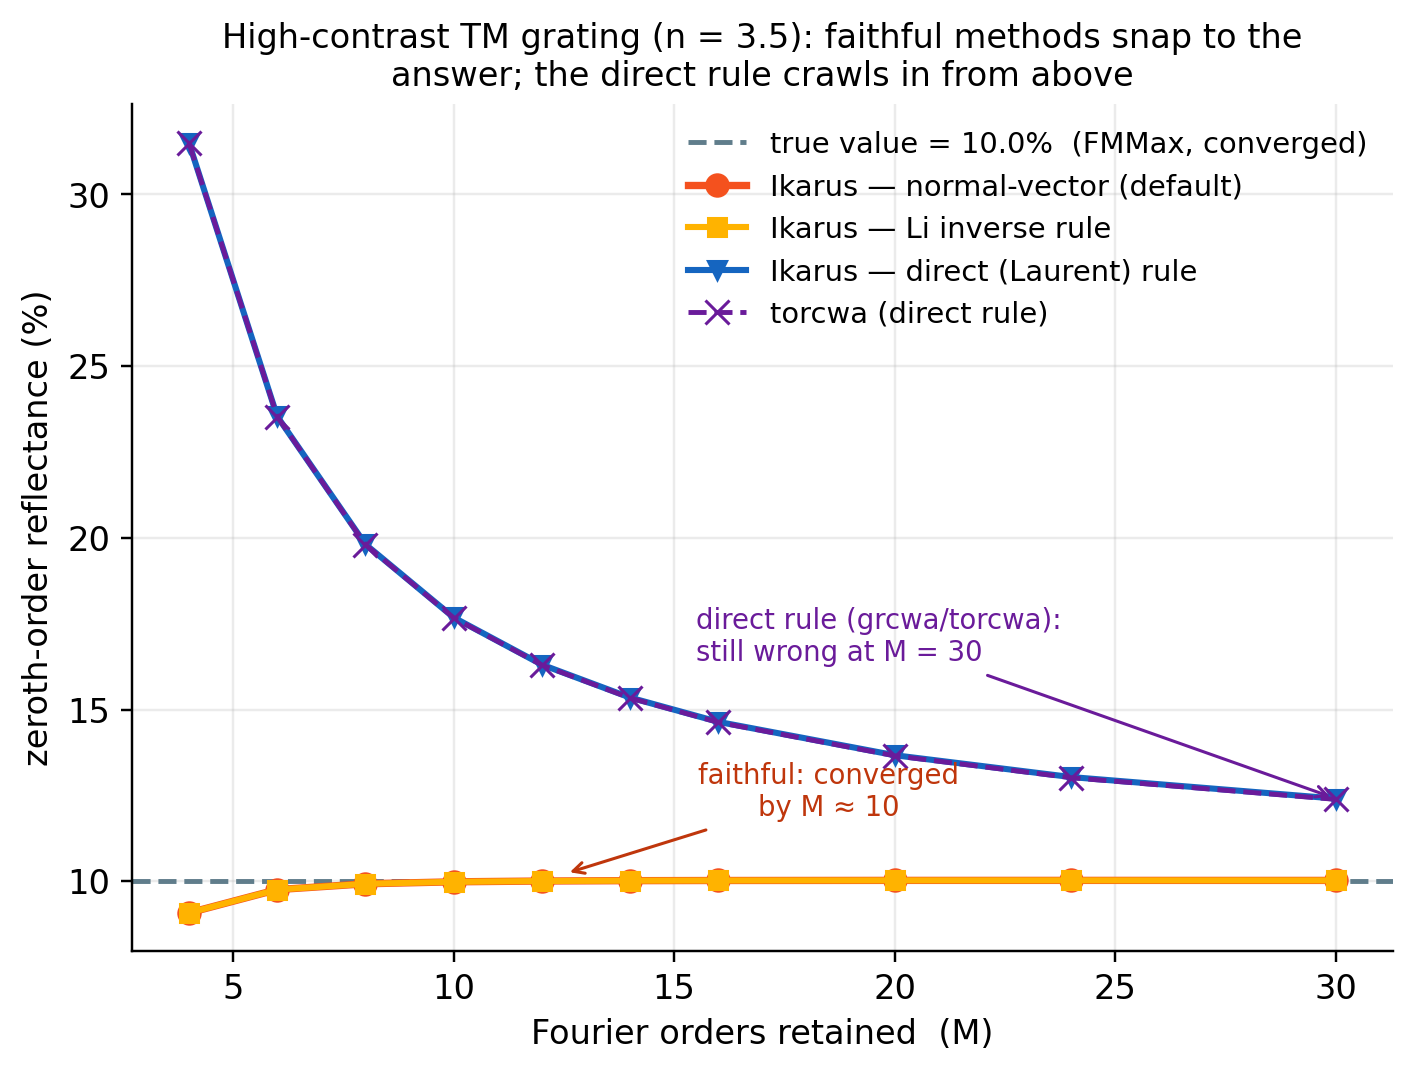
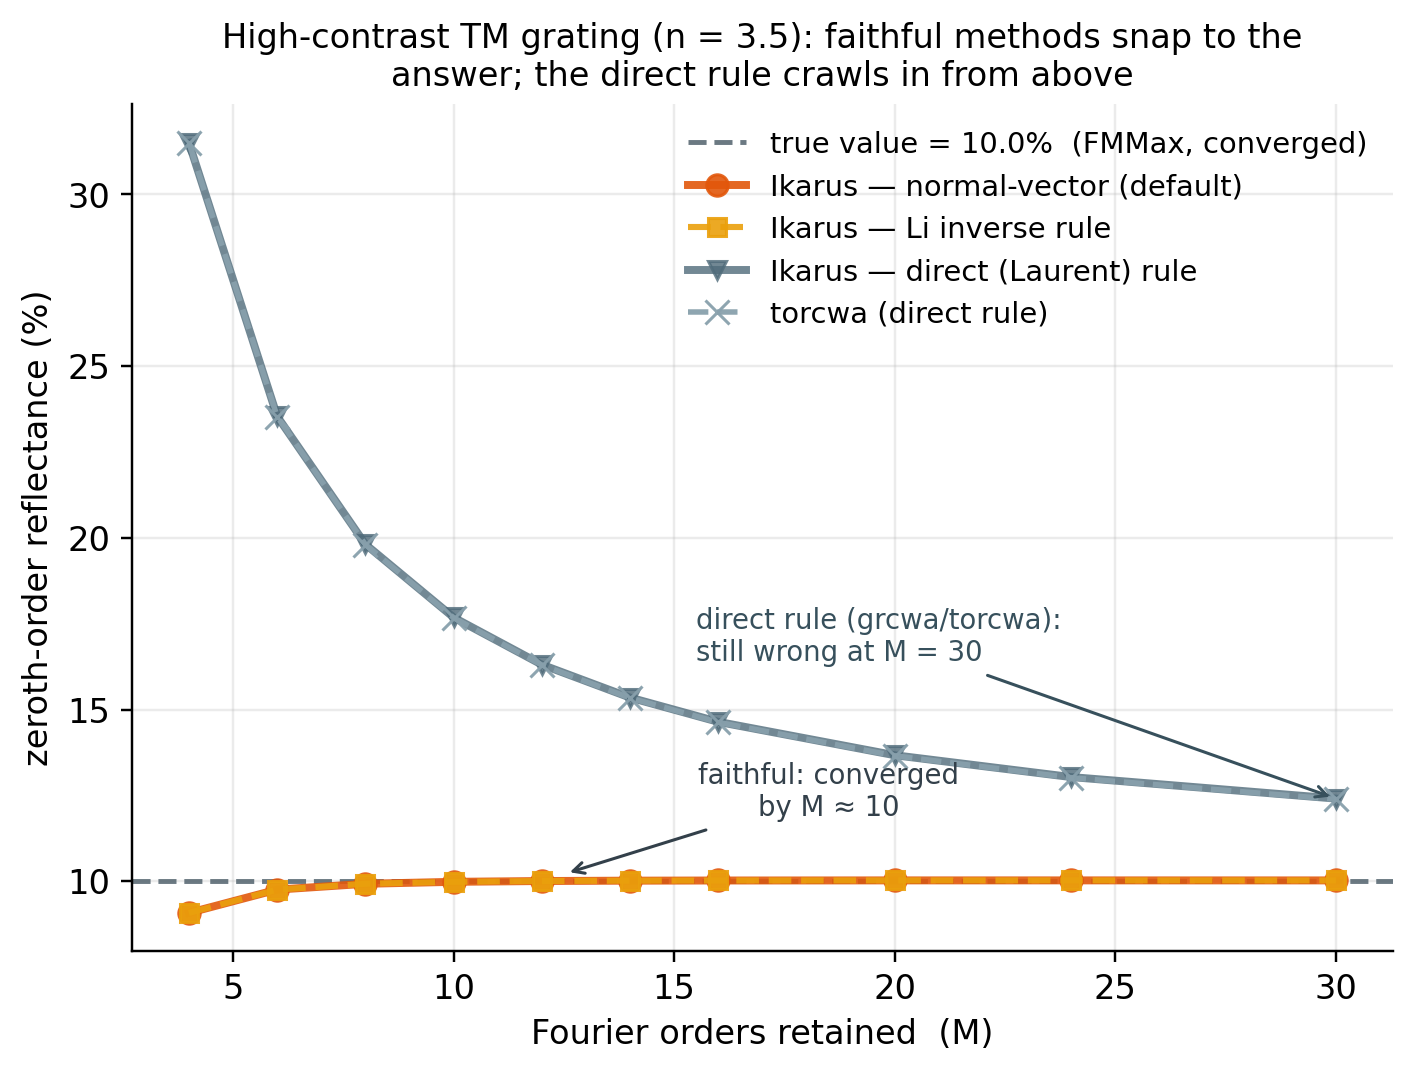
docs: refine validation figures (brand palette) + cite the cross-check tools
- Recolour all five figures to a brand-aligned scheme: warm orange/gold/bronze for
  Ikarus & the faithful methods (the heroes), muted slate for the other tools (they
  recede), charcoal for structure. Data lines get transparency + solid/dashed
  pairing so overlapping curves (normal/Li; laurent/torcwa) stay legible. Replaces
  the saturated primary colours.
- Add a References section citing every cross-check solver properly: FMMax
  (Schubert & Hammond, Opt. Express 2023), grcwa (Jin et al., ACS Photonics 2020),
  torcwa (Kim & Lee, Comput. Phys. Commun. 2023), plus the Fourier-factorization
  literature (Li 1996; Lalanne & Morris 1996; Granet & Guizal 1996; Schuster 2007).

diff --git a/scripts/gen_validation_figures.py b/scripts/gen_validation_figures.py
@@ -34,9 +34,18 @@ from ikarus.tests.validation import torcwa_reference as tw
 ASSETS = Path(__file__).resolve().parent.parent / "docs" / "assets"
 ASSETS.mkdir(parents=True, exist_ok=True)
 
-# -- shared style (matches gen_docs_figures.py) -----------------------------
-ORANGE, AMBER, DEEP, BLUE = "#f4511e", "#ffb300", "#bf360c", "#1565c0"
-GREEN, PURPLE, RED, GREY = "#2e7d32", "#6a1b9a", "#c62828", "#607d8b"
+# -- refined, brand-aligned palette -----------------------------------------
+# Warm (orange/gold/bronze) = Ikarus & faithful methods, the heroes; muted slate
+# = the other tools, which recede; charcoal for structure.  Data lines carry a
+# little transparency (+ solid/dashed pairing) so overlapping curves stay legible.
+ORANGE = "#e2570b"   # Ikarus normal-vector (default) — brand orange
+AMBER = "#eaa00c"    # Ikarus Li inverse rule — warm gold
+GREEN = "#a56a2b"    # FMMax reference — warm bronze
+DEEP = "#33404a"     # charcoal — text, annotations, tags
+BLUE = "#4f6b7a"     # Ikarus laurent / direct rule — muted slate
+PURPLE = "#88a0ac"   # torcwa — lighter steel
+RED = "#37505c"      # grcwa — dark slate
+GREY = "#5b6b75"     # true-value / reference lines
 plt.rcParams.update({
     "figure.facecolor": "white", "savefig.facecolor": "white",
     "axes.facecolor": "white", "font.size": 11, "axes.grid": True,
@@ -144,15 +153,15 @@ def tm_sweep():
 
 def fig_tm_convergence(Ms, data, R_true):
     fig, ax = plt.subplots(figsize=(7.4, 5.0))
-    ax.axhline(R_true * 100, color=GREY, ls="--", lw=1.6,
+    ax.axhline(R_true * 100, color=GREY, ls="--", lw=1.6, alpha=0.9,
                label=f"true value = {R_true*100:.1f}%  (FMMax, converged)")
-    ax.plot(Ms, data["normal"] * 100, "o-", color=ORANGE, lw=2.4, ms=7,
+    ax.plot(Ms, data["normal"] * 100, "o-", color=ORANGE, lw=2.6, ms=7, alpha=0.9,
             label="Ikarus — normal-vector (default)")
-    ax.plot(Ms, data["li"] * 100, "s-", color=AMBER, lw=2, ms=6,
+    ax.plot(Ms, data["li"] * 100, "s--", color=AMBER, lw=2, ms=6, alpha=0.9,
             label="Ikarus — Li inverse rule")
-    ax.plot(Ms, data["laurent"] * 100, "v-", color=BLUE, lw=2, ms=6,
+    ax.plot(Ms, data["laurent"] * 100, "v-", color=BLUE, lw=2.6, ms=6, alpha=0.8,
             label="Ikarus — direct (Laurent) rule")
-    ax.plot(Ms, data["torcwa"] * 100, "x--", color=PURPLE, lw=1.6, ms=8,
+    ax.plot(Ms, data["torcwa"] * 100, "x--", color=PURPLE, lw=1.8, ms=8, alpha=0.95,
             label="torcwa (direct rule)")
     ax.set_xlabel("Fourier orders retained  (M)")
     ax.set_ylabel("zeroth-order reflectance (%)")
@@ -163,21 +172,22 @@ def fig_tm_convergence(Ms, data, R_true):
                 arrowprops=dict(arrowstyle="->", color=DEEP, lw=1))
     ax.annotate("direct rule (grcwa/torcwa):\nstill wrong at M = 30",
                 xy=(30, data["laurent"][-1] * 100), xytext=(15.5, data["laurent"][-1] * 100 + 4),
-                fontsize=9, color=PURPLE,
-                arrowprops=dict(arrowstyle="->", color=PURPLE, lw=1))
+                fontsize=9, color=RED,
+                arrowprops=dict(arrowstyle="->", color=RED, lw=1))
     ax.legend(frameon=False, fontsize=9.5, loc="upper right")
     save(fig, "validation_tm_convergence.png")
 
 
 def fig_tm_error(Ms, data, R_true):
     fig, ax = plt.subplots(figsize=(7.4, 5.0))
-    for key, c, mk, lbl in [
-        ("li", ORANGE, "o", "Ikarus faithful (normal-vector = Li for 1-D)"),
-        ("laurent", BLUE, "v", "Ikarus direct rule"),
-        ("torcwa", PURPLE, "x", "torcwa (direct rule)"),
+    for key, c, mk, ls, lbl in [
+        ("li", ORANGE, "o", "-", "Ikarus faithful (normal-vector ≡ Li for 1-D)"),
+        ("laurent", BLUE, "v", "-", "Ikarus direct rule"),
+        ("torcwa", PURPLE, "x", "--", "torcwa (direct rule)"),
     ]:
         err = np.abs(data[key] - R_true)
-        ax.loglog(Ms, np.maximum(err, 1e-6), mk + "-", color=c, lw=2, ms=6, label=lbl)
+        ax.loglog(Ms, np.maximum(err, 1e-6), mk + ls, color=c, lw=2.2, ms=6.5,
+                  alpha=0.9, label=lbl)
     guide = 0.9 * (Ms.astype(float) / Ms[0]) ** -1.0 * np.abs(data["laurent"][0] - R_true)
     ax.loglog(Ms, guide, ":", color=GREY, lw=1.6, label="slope ∝ 1/M  (guide)")
     ax.set_xlabel("Fourier orders retained  (M)")
@@ -202,11 +212,11 @@ def fig_cylinder():
     R_true, _ = fm.stack_RT([air, cyl, air], [0.0, CYL_H, 0.0], PERIOD, WL, 500, "normal", "TE")
 
     fig, ax = plt.subplots(figsize=(7.4, 5.0))
-    ax.axhline(R_true * 100, color=GREY, ls="--", lw=1.6,
+    ax.axhline(R_true * 100, color=GREY, ls="--", lw=1.6, alpha=0.9,
                label=f"true value = {R_true*100:.1f}%  (FMMax NORMAL)")
-    ax.plot(Ms, R_n * 100, "o-", color=ORANGE, lw=2.4, ms=7,
+    ax.plot(Ms, R_n * 100, "o-", color=ORANGE, lw=2.6, ms=7, alpha=0.9,
             label="Ikarus — normal-vector (default)")
-    ax.plot(Ms, R_li * 100, "s-", color=AMBER, lw=2, ms=6,
+    ax.plot(Ms, R_li * 100, "s--", color=AMBER, lw=2, ms=6, alpha=0.9,
             label="Ikarus — Li inverse rule")
     ax.set_xlabel("Fourier orders per axis  (M)")
     ax.set_ylabel("reflectance (%)")
@@ -236,8 +246,8 @@ def fig_summary(R_true):
     colors = [GREEN, ORANGE, AMBER, BLUE, PURPLE, RED]
 
     fig, ax = plt.subplots(figsize=(7.6, 5.2))
-    ax.axvspan(-0.5, 2.5, color=GREEN, alpha=0.06)      # faithful group
-    ax.axvspan(2.5, 5.5, color=RED, alpha=0.06)         # direct-rule group
+    ax.axvspan(-0.5, 2.5, color=ORANGE, alpha=0.07)     # faithful group (warm)
+    ax.axvspan(2.5, 5.5, color=BLUE, alpha=0.09)        # direct-rule group (cool)
     bars = ax.bar(labels, vals, color=colors, edgecolor="white", width=0.7)
     ax.axhline(R_true * 100, color=GREY, ls="--", lw=1.6)
     ax.text(2.5, 12.3, f"true value = {R_true*100:.1f}%", color=DEEP,
@@ -249,10 +259,10 @@ def fig_summary(R_true):
                 va="bottom", fontsize=8.5, color=DEEP)
     ax.set_ylabel("zeroth-order reflectance (%)")
     ax.set_ylim(0, max(vals) * 1.30)
-    ax.text(1.0, max(vals) * 1.20, "faithful ✓", color=GREEN, ha="center",
-            fontsize=10.5, fontweight="bold")
+    ax.text(1.0, max(vals) * 1.20, "faithful  ✓", color=ORANGE, ha="center",
+            fontsize=11, fontweight="bold")
     ax.text(4.0, max(vals) * 1.20, "direct rule — wrong", color=RED, ha="center",
-            fontsize=10.5, fontweight="bold")
+            fontsize=11, fontweight="bold")
     ax.set_title("The bottom line — high-contrast TM grating at a practical truncation",
                  fontsize=11)
     save(fig, "validation_summary.png")

diff --git a/docs/validation.md b/docs/validation.md
@@ -139,3 +139,36 @@ independent solver on exactly the cases where the convenient tools fail.
 
 *Working on something in this regime? That is precisely the kind of problem
 [we build for](citation.md) — reach out.*
+
+## References
+
+**Cross-check solvers.** The independent, separately-implemented RCWA codes Ikarus
+is validated against on this page. If you use them, please cite their authors:
+
+- **FMMax** — M. F. Schubert and A. M. Hammond, "Fourier modal method for inverse
+  design of metasurface-enhanced micro-LEDs," *Optics Express* **31**, 42945 (2023).
+  [arXiv:2308.08573](https://arxiv.org/abs/2308.08573) ·
+  [github.com/invrs-io/fmmax](https://github.com/invrs-io/fmmax)
+- **grcwa** — W. Jin, W. Li, M. Orenstein, and S. Fan, "Inverse design of lightweight
+  broadband reflector for relativistic lightsail propulsion," *ACS Photonics* **7**,
+  2350 (2020). [github.com/weiliangjinca/grcwa](https://github.com/weiliangjinca/grcwa)
+- **torcwa** — C. Kim and B. Lee, "TORCWA: GPU-accelerated Fourier modal method and
+  gradient-based optimization for metasurface design," *Computer Physics
+  Communications* **282**, 108552 (2023).
+  [doi:10.1016/j.cpc.2022.108552](https://doi.org/10.1016/j.cpc.2022.108552) ·
+  [github.com/kch3782/torcwa](https://github.com/kch3782/torcwa)
+
+**Fourier factorization.** The theory behind the convergence behaviour shown above:
+
+- L. Li, "Use of Fourier series in the analysis of discontinuous periodic
+  structures," *J. Opt. Soc. Am. A* **13**, 1870 (1996).
+- P. Lalanne and G. M. Morris, "Highly improved convergence of the coupled-wave
+  method for TM polarization," *J. Opt. Soc. Am. A* **13**, 779 (1996).
+- G. Granet and B. Guizal, "Efficient implementation of the coupled-wave method for
+  metallic lamellar gratings in TM polarization," *J. Opt. Soc. Am. A* **13**, 1019
+  (1996).
+- T. Schuster *et al.*, "Normal vector method for convergence improvement using the
+  RCWA for crossed gratings," *J. Opt. Soc. Am. A* **24**, 2880 (2007) — the
+  normal-vector method Ikarus uses by default.
+
+To cite Ikarus itself, see [Citation](citation.md).
